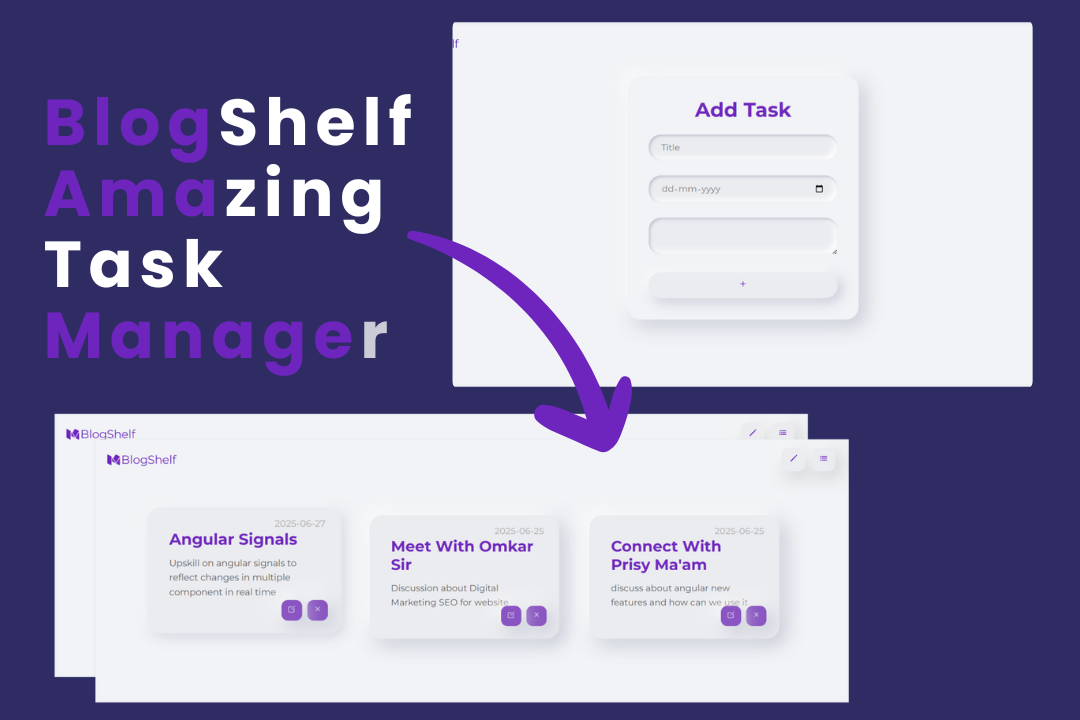
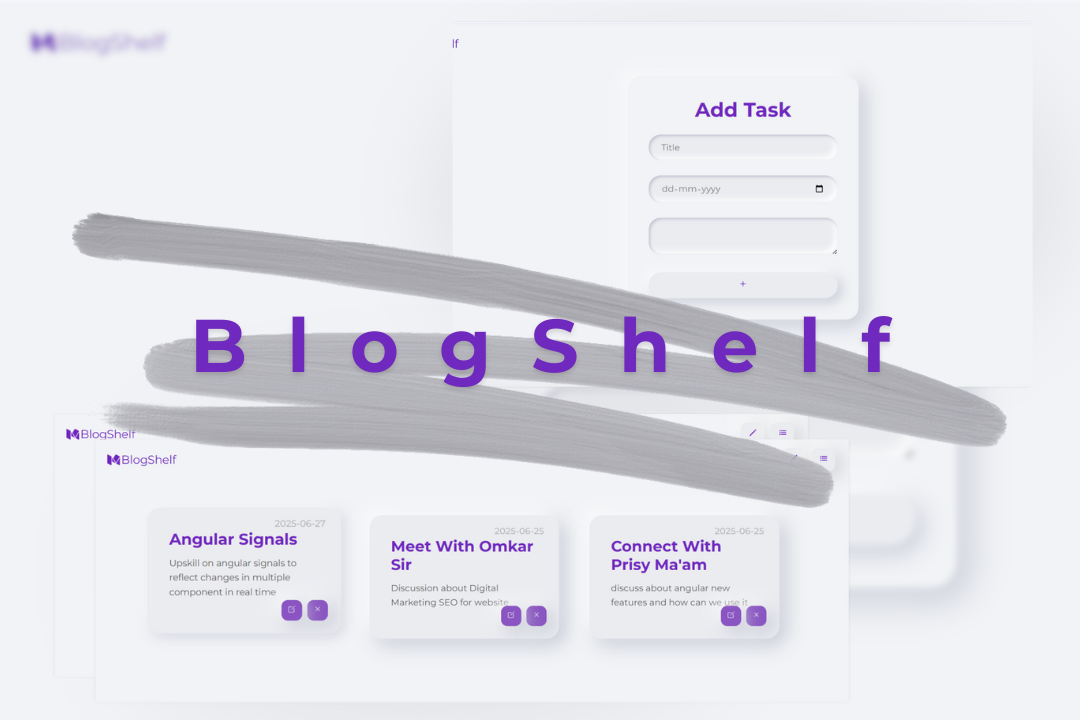
add thumbnail

diff --git a/style.css b/style.css
@@ -109,18 +109,20 @@ nav>i {
     font-weight: 400;
     line-height: 1.4;
 }
-.download{
+
+.download {
     cursor: pointer;
-    display: flex; 
+    display: flex;
     gap: 5px;
     align-items: center;
     color: #000;
-    i{
+
+    i {
         font-size: 1rem;
     }
 }
 
-#resumeLink{
+#resumeLink {
     text-decoration: none;
 }
 
@@ -507,11 +509,11 @@ footer>i:hover {
         align-items: center;
     }
 
-    .left h1{
+    .left h1 {
         font-size: 2rem;
     }
 
-    .right{
+    .right {
         min-width: 300px;
     }
 
@@ -530,7 +532,7 @@ footer>i:hover {
         padding-right: 10px;
     }
 
-    .achivement-col > p:last-child{
+    .achivement-col>p:last-child {
         font-size: 12px;
     }
 
@@ -543,15 +545,15 @@ footer>i:hover {
         flex-direction: column;
         transform-style: unset;
         transform: none;
+        height: 800px;
     }
 
     .recent-worked .item {
         width: 100%;
-        height: auto;
+        height: 100%;
         border-radius: 3px;
         overflow: hidden;
         transition: .2 all;
-        /* keep images visible */
         transform: none;
     }
 

diff --git a/index.html b/index.html
@@ -86,7 +86,7 @@
 
                 <div class="recent-worked">
                     <div class="item"><img src="image/dishdiarise.png" alt="DishDiaries App" loading="lazy"></div>
-                    <div class="item"><img src="image/project1.png" alt="KnowledgeBytes App" loading="lazy"></div>
+                    <div class="item"><img src="image/KnowLedge.png" alt="KnowledgeBytes App" loading="lazy"></div>
                     <div class="item"><img src="image/valoroid.png" alt="Valoroid UI" loading="lazy"></div>
                     <div class="item"><img src="image/movie.png" alt="Movie Slider" loading="lazy"></div>
                     <div class="item"><img src="image/Blogshelf.png" alt="BlogShelf Platform" loading="lazy"></div>
